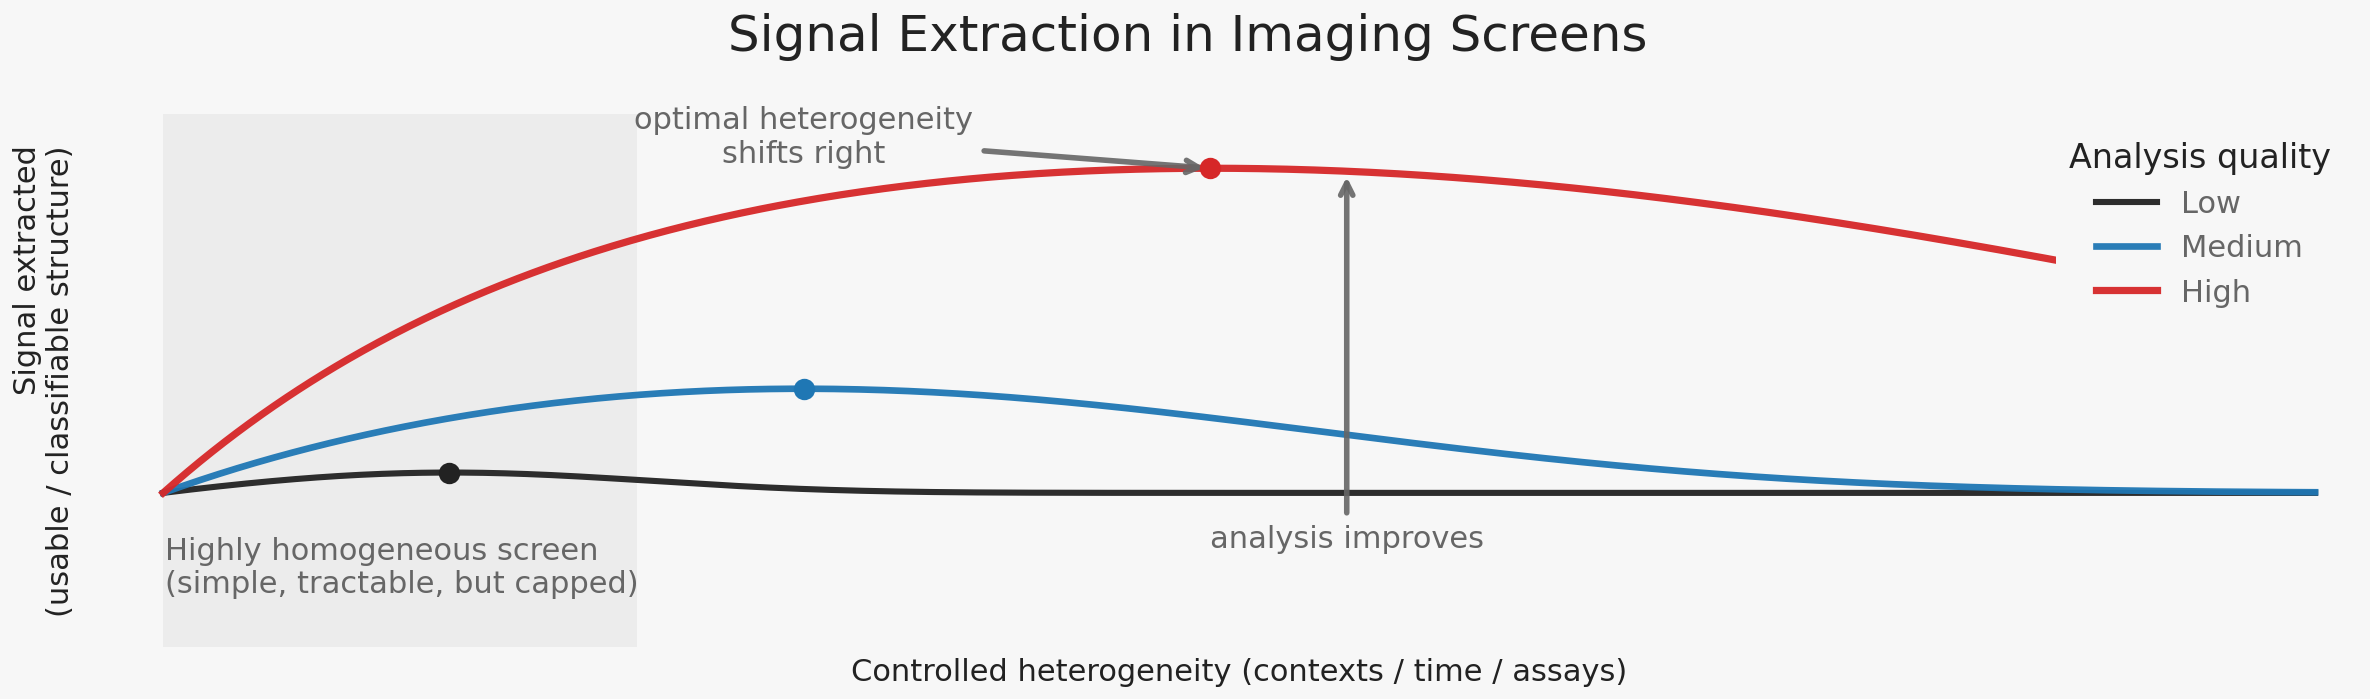
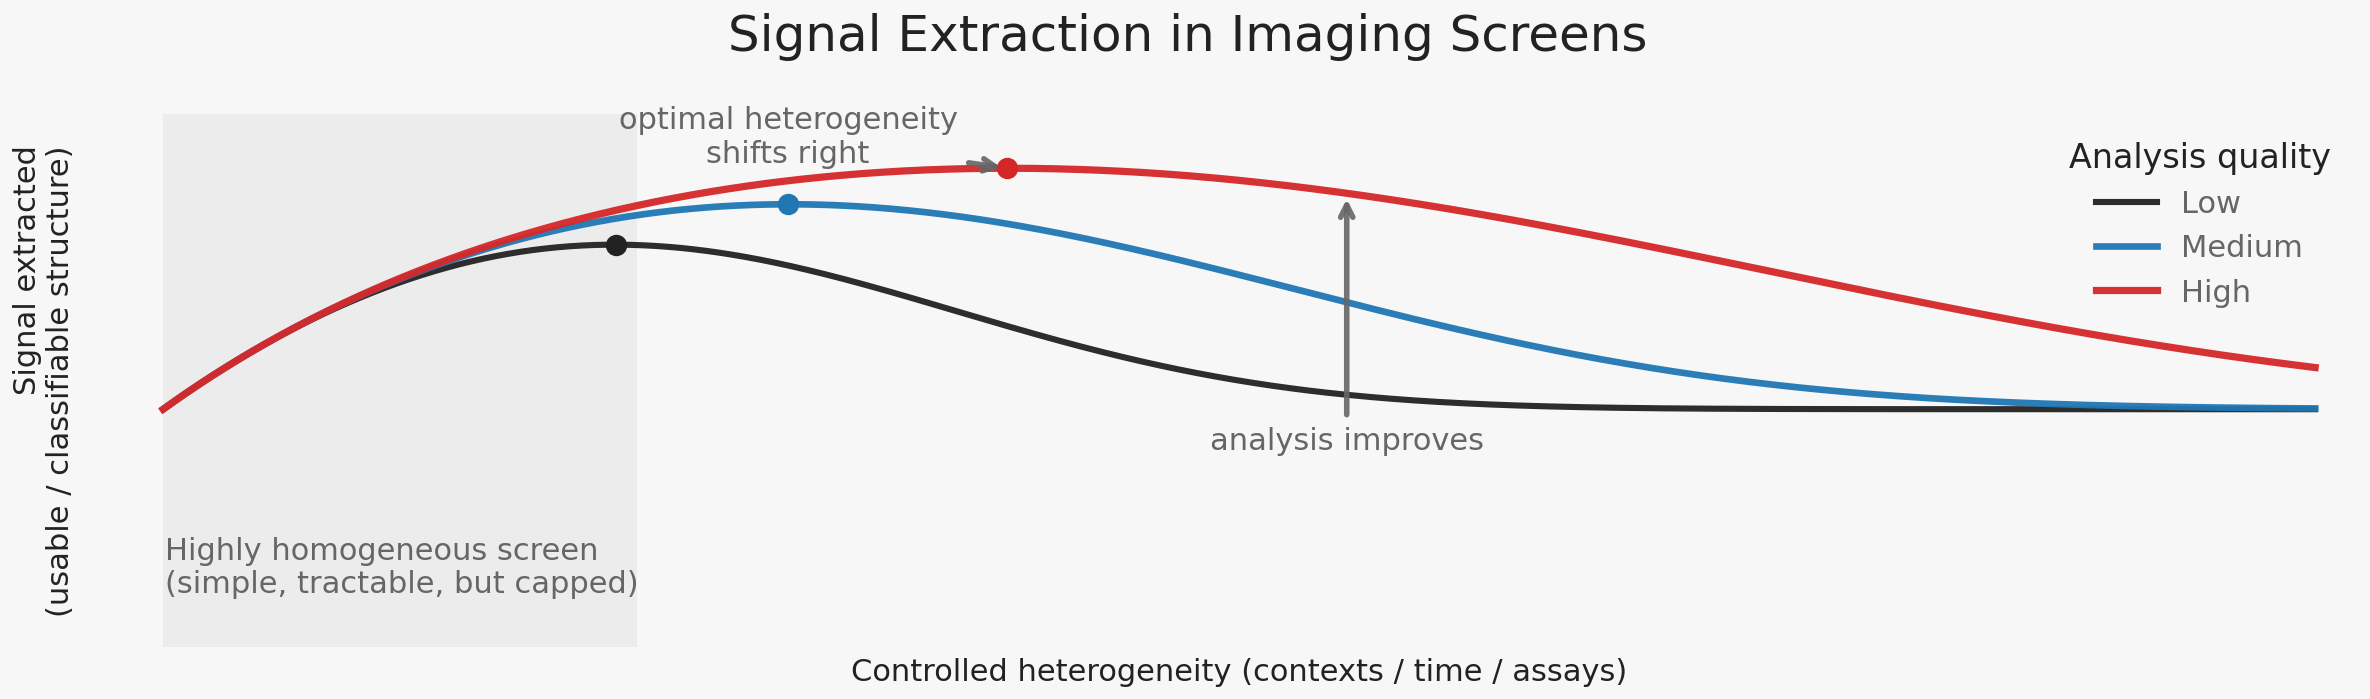
Publish 19

diff --git a/figure_notebooks/biounfold-019.py b/figure_notebooks/biounfold-019.py
@@ -76,11 +76,12 @@ def signal_curve(x, q, baseline=0.18, sat=0.20,
 
 # Choose qualities so low is nearly monotone decreasing
 q_low, q_mid, q_high = 0.35, 0.85, 1.80
+q_low, q_mid, q_high = 1.0, 1.0, 1.0
 
 # Increase ambiguity cost for low-quality only to make it monotone-ish
-y_low  = signal_curve(x, q_low,  a=7.0, noise_pow=2.8, q_pow=2.2, amplitude_gain=0.26)
-y_mid  = signal_curve(x, q_mid,  a=3.8, noise_pow=3.0, q_pow=2.3, amplitude_gain=0.26)
-y_high = signal_curve(x, q_high, a=3.0, noise_pow=3.2, q_pow=2.4, amplitude_gain=0.26)
+y_low  = signal_curve(x, q_low,  a=16.0, noise_pow=2.8, q_pow=2.2, amplitude_gain=0.26)
+y_mid  = signal_curve(x, q_mid,  a=6.0, noise_pow=3.0, q_pow=2.3, amplitude_gain=0.26)
+y_high = signal_curve(x, q_high, a=2.0, noise_pow=3.2, q_pow=2.4, amplitude_gain=0.26)
 
 # Normalize for aesthetics (keeps baseline > 0, but compresses into [0,1])
 m = max(y_low.max(), y_mid.max(), y_high.max())
@@ -164,7 +165,6 @@ for t in leg.get_texts():
 
 plt.tight_layout()
 plt.show()
-
 
 # %%
 save_path="../docs/assets/images/biounfold-019-signal-extraction-in-imaging-screens.png"

diff --git a/docs/_posts/2026-02-09-imaging-at-scale.md b/docs/_posts/2026-02-09-imaging-at-scale.md
@@ -1,0 +1,52 @@
+---
+layout: post
+title: "Imaging at Scale: Homogeneity and Ambiguity in Discovery"
+date: 2026-02-09
+tags: [Biology / Experimentation, AI / Computation]
+image: /assets/images/biounfold-019-signal-extraction-in-imaging-screens.png
+---
+
+### BioUnfold #19 — Imaging at Scale: Homogeneity and Ambiguity in Discovery
+
+![Discovery Is a Learning System](/assets/images/biounfold-019-signal-extraction-in-imaging-screens.png){: width="90%"}
+
+Imaging has remained central to biological discovery for centuries, not because it captures everything, but because it preserves structure. Long before molecular measurements, biology advanced by looking: by observing morphology, spatial organization, and context. Modern imaging technologies are vastly more sophisticated, yet they retain this core property. They offer a system-level view that integrates many biological processes at once, without requiring early commitment to a specific molecular story.
+
+At the same time, imaging only becomes operational in modern discovery when this richness is deliberately constrained.
+
+#### What “scale” really means for imaging
+
+In practice, imaging does not scale along a single dimension. It scales across multiple axes: the number of perturbations tested, the number of cells per condition, the number of features extracted per cell, the number of experimental batches, and the number of biological contexts compared. Pressure along any one of these axes forces compromise along others. Increasing the number of perturbations limits how much biological variability can be tolerated. Increasing biological heterogeneity increases ambiguity and reduces statistical efficiency. Scaling feature dimensionality complicates interpretation and stability.
+
+High-content imaging survives this pressure by enforcing homogeneity. Experimental systems are stabilized: single cell types, controlled density, fixed timepoints, standardized staining, synchronized states. These constraints collapse biological variability into a small number of dominant response modes. Metrics such as Z′ formalize this preference, rewarding experiments that maximize separation while minimizing variance. This is not an accident, nor a flaw. It is the mechanism by which imaging becomes reproducible, analyzable, and actionable at scale.
+
+#### Why imaging works so well
+
+The success of imaging screens follows directly from this design choice. Effect sizes are often large. Dose–response relationships are clean. Replicates cluster tightly. Simple models frequently suffice. These properties are sometimes attributed to the expressive power of imaging or to advances in analysis. More often, they reflect the fact that biology has been pushed into a small number of reproducible regimes.
+
+This regime formation makes decisions possible. Compounds can be ranked. Mechanisms can be grouped. Programs can move forward. But homogeneity is not neutral. By stabilizing experiments, it freezes the space of distinctions the system is allowed to learn. When enforced too early or too rigidly, discovery becomes efficient but brittle—optimizing confidently within a narrow regime while remaining blind to alternative modes of response.
+
+#### How heterogeneity was historically handled
+
+Historically, heterogeneity was difficult to accommodate within imaging assays because it is expensive under throughput constraints. Allowing variability within a single experiment rapidly erodes effect sizes, collapses Z′, and increases the number of samples required to reach confidence. Discovery therefore scaled along a different axis: multiplying perturbations while holding biology fixed.
+
+As a result, heterogeneity is introduced discretely across contexts — by testing hits in different cell lines, conditions, or assay variants — rather than being allowed to exist within primary screening experiments. This practice is most visible during hit confirmation and validation, where biological context is added stepwise and new distinctions are explicitly tested. Heterogeneity is deferred, not ignored.
+
+This approach is not conceptually naïve. It reflects a pragmatic understanding that heterogeneity is only useful when it produces classifiable distinctions. Different biological contexts naturally terminate in labels: responder versus non-responder, selective versus non-selective, context-dependent versus general. Heterogeneity is discretized so that learning can proceed.
+
+This remains the default today. What changes is not the logic, but the feasibility: improvements in analysis now make it possible to introduce heterogeneity earlier and more systematically, without abandoning decision discipline.
+
+#### The asymptote, and why it matters now
+
+In the limit, the ideal imaging experiment would observe multiple human tissues perturbed over time, preserving system balance while allowing statistical regularities to emerge before causal certainty. Such an experiment would be non-destructive, temporal, and context-rich. It would not immediately explain mechanisms, but it would reveal consistent patterns of response and failure across biological states.
+
+For a long time, this ideal could only be approximated locally—through isolated assays, limited biological contexts, or carefully curated examples—because scaling heterogeneity systematically collapsed tractability. Today, that constraint is shifting. Advances in machine learning robustness, representation alignment, and assay standardization are changing the cost structure of ambiguity. Multiple complementary imaging experiments—across cell lines, timepoints, perturbations, and assay types—can increasingly be pursued deliberately and at scale. This does not remove ambiguity. It makes it manageable.
+
+The consequence is not that discovery should abandon homogeneity, but that it can now afford to relax it strategically. Increased heterogeneity is justified only when it expands the space of classifiable hypotheses. Exploration can be broader, but it must still terminate in commitment.
+
+#### Conclusion
+
+Imaging does not advance discovery by preserving complexity indefinitely. It advances discovery by revealing new separations that can eventually be enforced. Homogeneity makes imaging work; heterogeneity keeps it honest. The discipline lies in knowing when to privilege one over the other.
+
+The challenge is not to embrace heterogeneity for its own sake, but to introduce it deliberately—only where it sharpens hypotheses, and only until commitment becomes possible. In that balance, imaging remains not just a way of seeing biology, but a way of learning from it.
+

diff --git a/docs/_posts/2026-02-09-imaging-at-scale-lin.md b/docs/_posts/2026-02-09-imaging-at-scale-lin.md
@@ -1,0 +1,17 @@
+---
+layout: null
+title: "Imaging at Scale: Homogeneity and Ambiguity in Discovery"
+date: 2026-02-09
+summary_for: biounfold-018-two-regimes-of-learning
+published: false
+---
+
+Abstract — Imaging at Scale: Homogeneity and Ambiguity in Discovery
+
+Imaging remains a foundational modality in biological discovery because it preserves structure: spatial organization, morphology, and context. At scale, however, imaging only becomes operational when this richness is constrained. Experiments are designed to enforce homogeneity, amplify dominant responses, and produce reproducible regimes that can be summarized, compared, and acted upon. This design choice explains the success of high-content imaging in screening and optimization.
+
+Homogeneity is not neutral. By stabilizing experiments, it freezes the space of distinctions the system is allowed to learn. When enforced too early, discovery becomes efficient but brittle, optimizing within a narrow regime while remaining blind to alternative modes of response. Heterogeneity is often proposed as a remedy, but it is frequently misunderstood. Heterogeneity is not a quantity to be maximized, nor a proxy for biological realism. Its primary value is directional: it reveals where dominant explanations begin to break and where new distinctions may exist. Amplitude still matters—strong, penetrant effects remain easier to stabilize and exploit—but direction matters more. Variability becomes scientifically meaningful when it consistently points toward new phenotypic or mechanistic labels that can eventually be enforced through classification and counting.
+
+Historically, heterogeneity was difficult to accommodate within imaging assays because it is expensive under throughput constraints. Discovery therefore scaled along a different axis: multiplying perturbations while holding biology fixed, and introducing heterogeneity discretely across contexts rather than within a single experiment. In the limit, the ideal imaging experiment would observe multiple human tissues perturbed over time, preserving system balance while allowing statistical regularities to emerge before causal certainty. Historically, this ideal could only be approximated locally—through isolated assays, limited contexts, or carefully curated examples—because scaling heterogeneity systematically collapsed tractability. Today, advances in machine learning robustness and assay standardization are shifting this boundary. What was once feasible only in fragments can increasingly be pursued deliberately and at scale, not because ambiguity disappeared, but because our ability to manage it improved.
+
+Seen this way, imaging does not advance discovery by preserving complexity indefinitely. It advances discovery by revealing new separations that can eventually be enforced. The challenge is not to embrace heterogeneity, but to introduce it deliberately—only where it expands the space of classifiable hypotheses, and only until commitment becomes possible.

diff --git a/content/2026-02-09-imaging-at-scale.md b/content/2026-02-09-imaging-at-scale.md
@@ -1,7 +1,7 @@
 ---
 layout: post
 title: "Imaging at Scale: Homogeneity and Ambiguity in Discovery"
-date: 2026-02-06
+date: 2026-02-09
 tags: [Biology / Experimentation, AI / Computation]
 image: /assets/images/biounfold-019-signal-extraction-in-imaging-screens.png
 ---

diff --git a/content/2026-02-09-imaging-at-scale-lin.md b/content/2026-02-09-imaging-at-scale-lin.md
@@ -1,7 +1,7 @@
 ---
 layout: null
 title: "Imaging at Scale: Homogeneity and Ambiguity in Discovery"
-date: 2026-02-06
+date: 2026-02-09
 summary_for: biounfold-018-two-regimes-of-learning
 published: false
 ---
